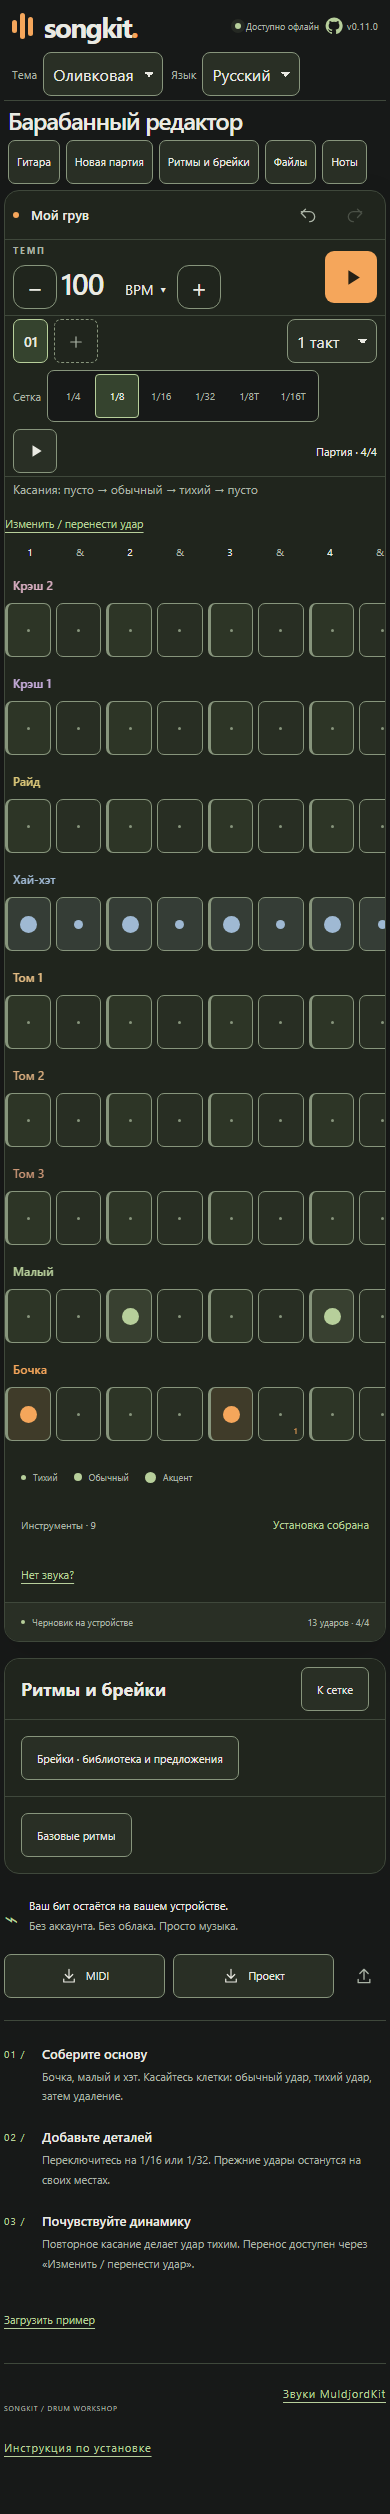
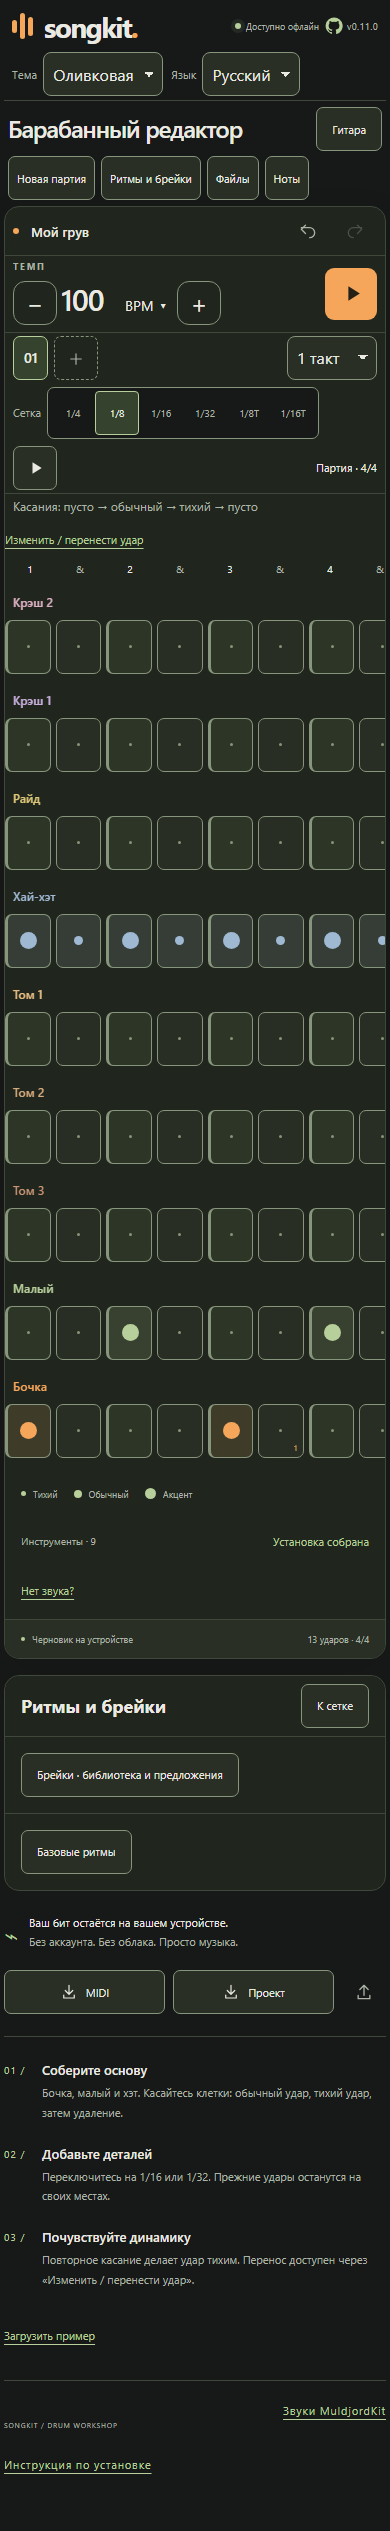
Keep instrument switch alongside editor title on narrow screens

diff --git a/src/pages/drum-editor/ui/drum-editor.tsx b/src/pages/drum-editor/ui/drum-editor.tsx
@@ -404,9 +404,11 @@ export function DrumEditor({
       )}
       <main inert={updateBusy}>
         <div className="page-heading editor-heading">
-          <h1>{t('Барабанный редактор', 'Drum editor')}</h1>
-          <nav className="editor-shortcuts" aria-label={t('Действия редактора', 'Editor actions')}>
+          <div className="instrument-heading">
+            <h1>{t('Барабанный редактор', 'Drum editor')}</h1>
             {guitarLink}
+          </div>
+          <nav className="editor-shortcuts" aria-label={t('Действия редактора', 'Editor actions')}>
             <button className="secondary-button" onClick={newPattern}>
               {t('Новая партия', 'New pattern')}
             </button>

diff --git a/src/app/styles/global.css b/src/app/styles/global.css
@@ -2001,3 +2001,16 @@ select:hover {
     background: Highlight;
   }
 }
+.instrument-heading {
+  display: flex;
+  align-items: center;
+  justify-content: space-between;
+  width: 100%;
+  gap: 0.5rem;
+  flex-wrap: wrap;
+}
+.instrument-heading .secondary-button {
+  min-height: 44px;
+  display: inline-flex;
+  align-items: center;
+}
